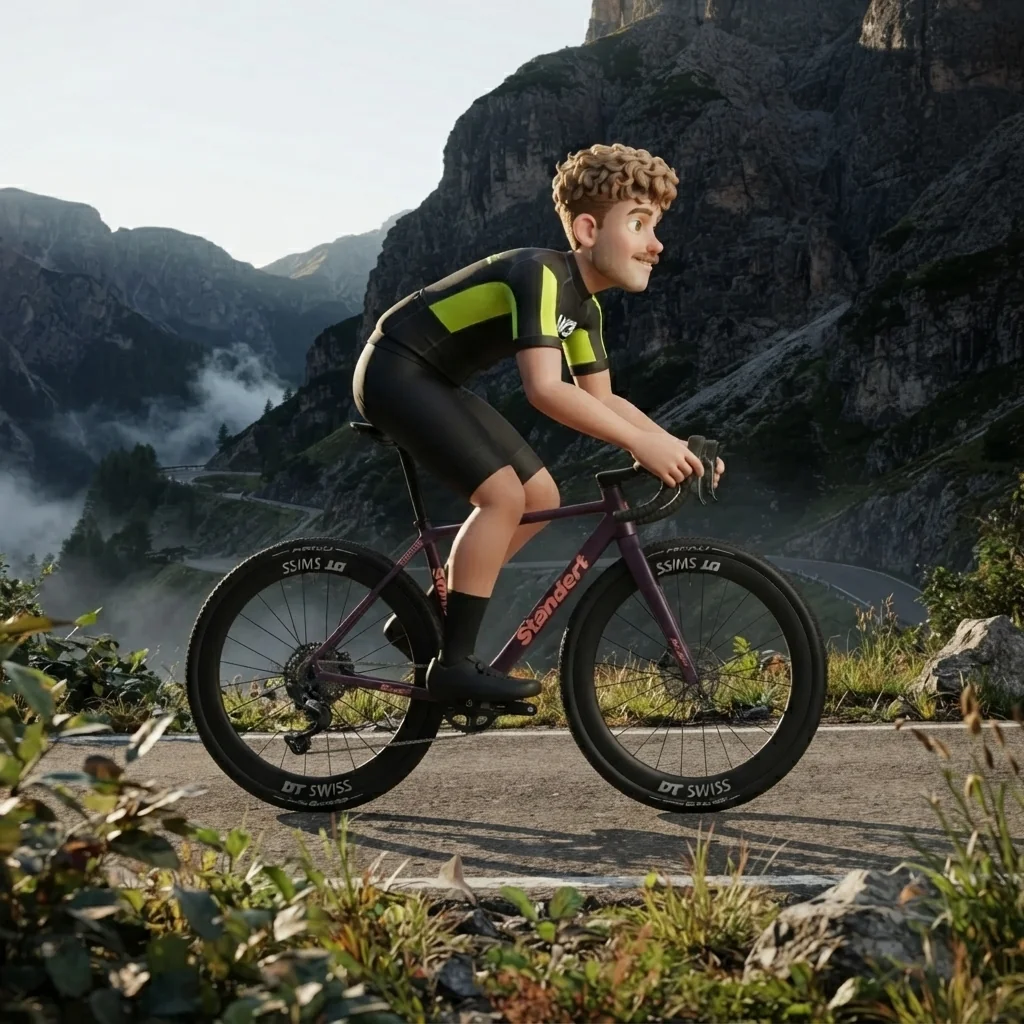
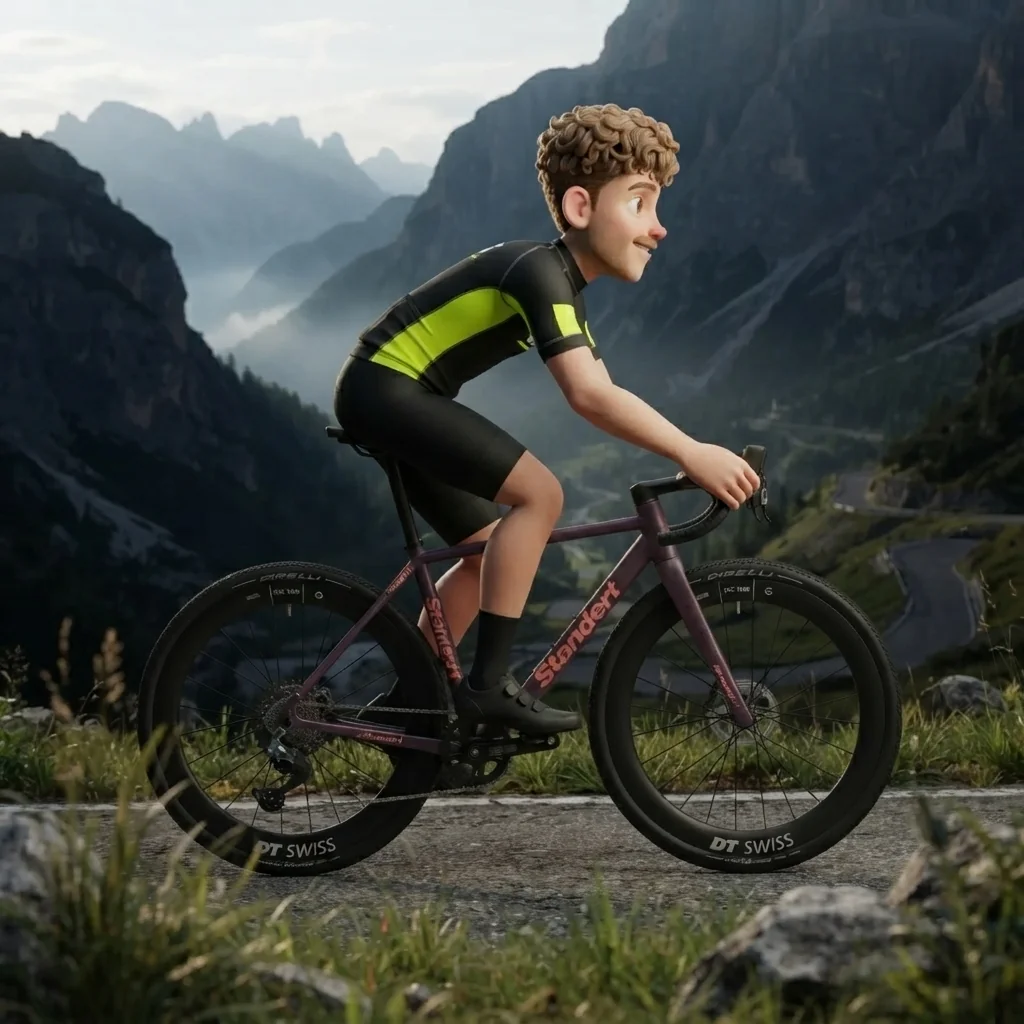
fix(studio): flatten the bike's camera back to the photograph's
Reviewing the collectible after the prompt rewrites caught a drift nobody had
looked for: the bike was rendering at a slight three-quarter angle with the
far wheel visibly smaller, where the source photograph is a dead-flat side
elevation. That matters beyond fidelity — the locked camera is what makes
every bike in the garage comparable and what lets `bike_build`'s edits swap
components without the machine shifting underneath them.

Three changes, each one measured against the next render. BIKE_CAMERA now
describes a flat orthographic elevation with a concrete test attached: both
wheels are identical circles, and any visible far-side bar, far crank or top
of saddle means the camera has rotated. The restyle prompt says to keep the
photograph's own camera rather than to construct one, since the photo is
already the target. And the camera instruction moved to the FIRST line of the
prompt, where it frames everything after it instead of arriving as a caveat.

Position mattered more than wording — the angle only really gave way once the
instruction led.

diff --git a/backend/app/services/cyclr_studio.py b/backend/app/services/cyclr_studio.py
@@ -239,12 +239,18 @@ _ANALYSIS = {
 # Today hero can crop it predictably. Without this the model wanders between
 # three-quarter views and crops, and no two renders are comparable.
 BIKE_CAMERA = (
-    "LOCKED CAMERA ANGLE: a strict side-on profile view of the bicycle from its DRIVE SIDE (the "
-    "right-hand side, so the chainring, chain and rear cassette all face the camera), shot at "
-    "eye level with a straight-on, non-perspective framing. The bike faces to the RIGHT of frame. "
-    "Both wheels must be fully visible and perfectly circular (not foreshortened), the whole bike "
-    "centered with clean even padding on all sides, nothing cropped. Do NOT use a three-quarter "
-    "angle, a low hero angle, or a top-down view."
+    "LOCKED CAMERA: a FLAT SIDE ELEVATION of the bicycle — an orthographic side view, as in a "
+    "manufacturer's catalogue photograph or a technical drawing. The camera sits exactly level "
+    "with the bike's centre, perfectly perpendicular to it, with a long lens and no perspective "
+    "at all.\n"
+    "THE TEST FOR THIS IS THE WHEELS: both are perfect circles of IDENTICAL size, and neither is "
+    "an ellipse. If the far wheel looks smaller than the near one, or you can see any of the "
+    "bike's width — the far side of the bars, the far crank, the top of the saddle, the far side "
+    "of the tyres — the camera has rotated and the render is wrong. From this angle the bicycle "
+    "is a flat silhouette with no depth showing.\n"
+    "It is seen from its DRIVE SIDE (the right-hand side, so the chainring, chain and rear "
+    "cassette face the camera) and faces to the RIGHT of frame, centred with clean even padding, "
+    "nothing cropped."
 )
 
 
@@ -430,12 +436,28 @@ async def render_bike_from_photo(photo_b64: str, description: str) -> tuple[str 
     composed from it — but it is no longer the only source of truth.
     """
     prompt = (
-        "Re-render the bicycle in the supplied photograph as a premium 3D model.\n\n"
+        # THE CAMERA LEADS. It sat after the restyle instruction for three
+        # attempts and the render kept coming back rotated a few degrees toward
+        # the viewer — a "product render" prior the model applies by default.
+        # Moved to the first line, where it is read as the frame for everything
+        # after it rather than a caveat on it.
+        "KEEP THE EXACT CAMERA OF THE SUPPLIED PHOTOGRAPH. It is a dead-flat side elevation and "
+        "the bicycle must not rotate by even one degree. Do not turn it toward the viewer, do not "
+        "add perspective, and do not make it more three-dimensional: from this angle the bicycle "
+        "is a flat silhouette, both wheels are perfect circles of equal size, and none of the "
+        "bike's width is visible — no far-side handlebar, no far crank, no top of the saddle.\n\n"
+        "Now re-render that bicycle, in that orientation, as a premium 3D model.\n\n"
         "THIS IS A RESTYLE, NOT A REDESIGN. The bicycle must be 1:1 IDENTICAL to the photograph: "
         "the same frame geometry and tube shapes, the same paint colour and finish, the same "
         "decals in the same places, the same handlebar, saddle, wheels, rim depth, tyres, "
         "drivetrain and brakes. Change NOTHING about the machine itself — not the colour, not the "
         "shape, not a single component. Only the rendering style changes.\n\n"
+        "KEEP THE PHOTOGRAPH'S CAMERA EXACTLY. It is already a flat, straight-on side elevation, "
+        "and the bicycle must stay in precisely that orientation — do not rotate it even slightly "
+        "toward the viewer, and do not add perspective or a three-quarter turn to make it look "
+        "more dimensional. Overlay your result on the original and the two silhouettes should sit "
+        "on top of each other: both wheels perfect circles of equal size, and none of the bike's "
+        "width showing.\n\n"
         f"REFERENCE DETAIL (from the same photograph): [{description}]\n\n"
         f"{NO_INVENTED_TEXT}\n\n"
         f"{BIKE_CAMERA} "
